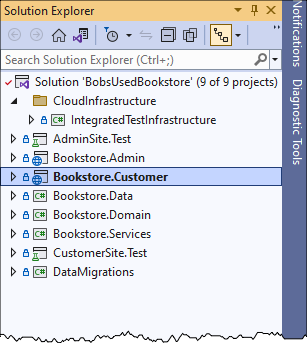
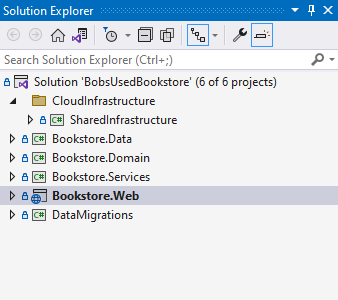
Update readme.

diff --git a/README.md b/README.md
@@ -1,24 +1,24 @@
 # 'Bob's Used Books' Sample Application
 
-_Bob's Used Books_ is a sample application, built on ASP.NET Core, that aims to represent a real-world bookstore. It consists of two ASP.NET Core MVC web applications. Both the admin and customer web applications make use of a single Microsoft SQL Server database.
+_Bob's Used Books_ is a sample application, built on ASP.NET Core, that aims to represent a real-world bookstore. It is a monolithic n-tier application with an ASP.NET Core MVC front end and a Microsoft SQL Server database backend.
 
-The first application is a customer-facing website, enabling customers to browse the store's stock of used books being offered for sale, select and add them to a shopping cart, and work through a fictional check-out process. Store customers can also offer their own books for resale through the website.
+The front end web application contains a customer portal and an administration portal. The customer portal enables customers to browse the store's stock of used books being offered for sale, select and add them to a shopping cart, and work through a fictional check-out process. Store customers can also offer their own books for resale through the website.
 
-![Customer web app home page](./media/customer_app_home.png)
+![Customer portal home page](./media/customer_app_home.png)
 
-The second application is the bookstore's 'admin' website, used by our fictional bookstore staff to maintain the stocks of books available in the store, process customer orders, and other bookstore-related tasks.
+The administration portal is used to maintain the stocks of books available in the store, process customer orders, and other bookstore-related tasks.
 
 ![Admin web app home page](./media/admin_app_home.png)
 
-In its current state the sample web applications illustrate an in-progress "lift and shift" from on-premises applications to the AWS cloud, with partial modernization to use some AWS services. As the sample application progresses over time we have plans to add further modernization examples including (but not limited to) changes such as database modernization and refactoring to microservices.
+In its current state the application illustrates an in-progress "lift and shift" from on-premises to AWS, with partial modernization to use some AWS services. As the sample application progresses over time we have plans to add further modernization examples including (but not limited to) changes such as database modernization and refactoring to microservices.
 
-## Running the sample applications
+## Running the sample application
 
-Both web applications, and supporting shared projects, can be found in the _app_ subfolder of the repository. _Bookstore.Admin_ is the ASP.NET Core MVC application representing the stores administrative application, and _Bookstore.Customer_ is the ASP.NET Core MVC application representing the customer-facing web site.
+The web application and supporting projects can be found in the _app_ subfolder of the repository. _Bookstore.Web_ is the ASP.NET Core MVC application front end.
 
 ![Projects in Visual Studio's Solution Explorer](./media/vs_solution_projects.png)
 
-You can run and debug both web applications, at the same time, from the repository codebase without needing to create any AWS resources or deploy the applications. Optionally, you can also run both applications locally, in a state representing the in-progress lift and shift operation, where a small number of AWS services are used to provide application features such as:
+You can run and debug the web application from the repository codebase without needing to create any AWS resources or deploy the application. Optionally, you can also run the web application locally, in a state representing the in-progress lift and shift operation, where a small number of AWS services are used to provide application features such as:
 
 * An object store holding cover images for the store's books, using a private [Amazon S3](https://aws.amazon.com/s3) bucket.
 * An [Amazon CloudFront](https://aws.amazon.com/cloudfront) distribution, through which the objects (images) in the bucket are accessed, enabling the bucket to remain private.
@@ -26,111 +26,70 @@ You can run and debug both web applications, at the same time, from the reposito
 * Secrets management for the database credentials using [Amazon Secrets Manager](https://aws.amazon.com/secrets-manager).
 * Application configuration parameters retrieved at runtime from [AWS Systems Manager](https://aws.amazon.com/systems-manager) Parameter Store.
 
-Launch profiles, contained in the respective application's launchSettings.json files, are used to determine whether you are running the applications fully local (no AWS resources) or local with AWS resources. The launch profile that represents a fully local run, without using any AWS services, is called the _Local_ profile. The second profile, in which the applications can be run locally but also make use of some AWS services, is called the _integrated_ profile.
+Launch profiles, contained in the application's launchSettings.json file, are used to determine whether you are running the application fully local (no AWS resources) or local with AWS resources. The launch profile that represents a fully local run, without using any AWS services, is called the _Local_ profile. The second profile, in which the application can be run locally but also make use of some AWS services, is called the _integrated_ profile.
 
-![Launch profiles for the admin web app](./media/vs_admin_launch_profiles.png)
+![Launch profiles for the web app](./media/vs_launch_profiles.png)
 
-![Launch profiles for the customer web app](./media/vs_customer_launch_profiles.png)
+To run the application using the _Integrated_ profile a minimal set of AWS resources need to be provisioned. This is achieved using Infrastructure as Code (IaC) with an [AWS Cloud Development Kit (CDK)](https://aws.amazon.com/cdk) application contained in the _infrastructure/SharedInfrastructure_ folder of the repository. The project in the _infrastructure/SharedInfrastructure/src_ subfolder can be deployed using the CDK's command-line tooling to instantiate the required resources.
 
-To run the applications using the _Integrated_ profile a minimal set of AWS resources need to be provisioned. This is achieved using Infrastructure as Code (IaC) with an [AWS Cloud Development Kit (CDK)](https://aws.amazon.com/cdk) application contained in the _infrastructure/SharedInfrastructure_ folder of the repository. The project in the _infrastructure/SharedInfrastructure/src_ subfolder can be deployed using the CDK's command-line tooling to instantiate the required resources.
+**Note 1:** the CDK application in the _infrastructure/SharedInfrastructure/src_ folder creates minimal resources needed for debugging using the _Integrated_ launch profile *or* a full set of resources equating to a "production" deployment. See the [deployment README](./infrastructure/SharedInfrastructure/README.md) file for more details.
 
-**Note 1:** the CDK application in the _infrastructure/SharedInfrastructure/src_ folder creates minimal resources needed for debugging using the _Integrated_ launch profiles *or* a full set of resources equating to a "production" deployment. See the [deployment README](./infrastructure/SharedInfrastructure/README.md) file for more details.
+**Note 2:** the sample application make use of **localdb** for database connectivity. Therefore, Microsoft Windows is currently required to run these samples.
 
-**Note 2:** the sample applications make use of **localdb** for database connectivity. Therefore, Microsoft Windows is currently required to run these samples.
+### Running and debugging with the _Local_ launch profile
 
-### Running and debugging with the _Local_ launch profiles
+Having cloned the repository, the application can be run on a Microsoft Windows workstation without further configuration or deployment.
 
-Having cloned the repository, the admin and customer web site applications can be run, in parallel, on a Microsoft Windows workstation without further configuration or deployment.
+To run the web application fully local, using no cloud resources, start the **Bookstore.Web** project using the _Local_ profile in your IDE or at the command line. Ports 5000 and 5001 are used for the web application on localhost.
 
-1. To run the admin web application fully local, using no cloud resources, start the **Bookstore.Admin** project using the _AdminSite Local_ profile in your IDE or at the command line. Ports 5000 and 5001 are used for the admin site on localhost.
+When running under the _local_ profile the application will use a **localdb** instance for database support with the connection string defined in appSettings.Development.json files. User authentication is simulated. Clicking the _Log in_ option results in a transition to an authenticated state, without prompting for username or password, or user sign-up. This enables you to test the work processes in the admin portal, and customer features such as shopping cart, without needing cloud resources. Facades within the application abstract away potential use of AWS services such as Amazon S3 to the local file system.
 
-1. To run the customer web application fully local, using no cloud resources, start the **Bookstore.Customer** project using the _CustomerSite Local_ profile in your IDE or at the command line. Ports 4000 and 4001 are used for the customer site on localhost.
+### Running and debugging with the _Integrated_ launch profile
 
-When running under the _local_ profiles, both applications will use a **localdb** instance for database support, with the connection string defined in their respective appSettings.Development.json files. User authentication for both applications is simulated. Clicking the respective _Log in_ options in both applications results in a transition to an authenticated state, without prompting for username or password, or user sign-up. This enables you to test the work processes in the admin application, and customer features such as shopping cart, without needing cloud resources. Facades within the applications abstract away potential use of AWS services such as Amazon S3 to the local file system.
-
-### Running and debugging with the _Integrated_ launch profiles
-
-Prior to using the _Integrated_ launch profiles for the web applications you need to perform a deployment of the single CDK infrastructure stack, to create and configure a minimum set of AWS resources that each application will use. To deploy the minimal cloud infrastructure needed to support running the applications using the _Integrated_ profiles, see the [deployment README](./infrastructure/SharedInfrastructure/README.md) file.
+Prior to using the _Integrated_ launch profile for the web application you need to perform a deployment of the single CDK infrastructure stack, to create and configure a minimum set of AWS resources that the application will use. To deploy the minimal cloud infrastructure needed to support running the application using the _Integrated_ profile, see the [deployment README](./infrastructure/SharedInfrastructure/README.md) file.
 
 Once the CDK deployment has completed:
 
-1. Update the appsettings.Test.json file for **both** of the web applications, to set a credential profile and region. An example of the required settngs is shown below.
+1. Update the appsettings.Test.json file for the web application, to set a credential profile and region. An example of the required settngs is shown below.
 
     ![AppSettings update](./media/appsettings_integrated_debug.png)
 
-    **Note:** These settings are needed as the applications will be calling AWS service APIs to access the resources you just provisioned using the CDK. The `Region` property should match the region you told the CDK to deploy to, or `us-west-2` if you accepted the default built into the CDK application. The `Profile` property value should point to credentials that belong to the same account used with the CDK deployment.
+    **Note:** These settings are needed as the application will be calling AWS service APIs to access the resources you just provisioned using the CDK. The `Region` property should match the region you told the CDK to deploy to, or `us-west-2` if you accepted the default built into the CDK application. The `Profile` property value should point to credentials that belong to the same account used with the CDK deployment.
 
-1. Run the admin application by starting the **Bookstore.Admin** project using the _AdminSite Integrated_ profile in your IDE or at the command line. Ports 5000 and 5001 are used for the admin site on localhost.
-
-1. Run the customer application by starting the **Bookstore.Customer** project using the _CustomerSite Integrated_ profile in your IDE or at the command line. Ports 4000 and 4001 are used for the customer site on localhost.
+Run the  application by starting the **Bookstore.Web** project using the _Integrated_ profile in your IDE or at the command line. Ports 5000 and 5001 are used for the web application on localhost.
 
 ### User authentication
 
-In integrated mode, both applications use Amazon Cognito user pools for user authentication.
+In integrated mode, the application uses Amazon Cognito user pools for user authentication and Amazon Cognito user groups for role-based authorization.
 
-For the admin site you will need to create a user, representing bookstore staff, in the user pool for the admin site. When creating the fictional staff user, you can elect to have a temporary password auto-generated for you, and an email sent to a valid email address with the password. Alternatively, you can choose to not have an email sent, and set the temporary password yourself. Either way, on first login to the admin application, you will be asked to change the temporary password.
+On first login to the admin application you will be asked to change the temporary password.
 
-**Note:** The instructions below set the Create User options to (a) have the password emailed to a real email address, and (b) have the password be auto-generated. The screenshots are taken from the new Cognito console experience. If you are running the older experience you may encounter some differences, however the instructional flow holds true.
+1. Start the application using the _Integrated_ launch profile.
 
-1. Sign into the AWS Management Console and proceed to the Amazon Cognito dashboard.
+1. In the application, select _Log in_ from the application toolbar.
 
-1. Select **Manage User Pools** in the Cognito dashboard. Two User Pools belonging to the sample, and created by the CDK application, will be listed - _BobsUsedBooks-Test-AdminPool_ and _BobsUsedBooks-Test-CustomerPool_.
+1. Sign in using **admin** for the username and **P@ssword1** for the password.
 
-    ![User pools for the applications](./media/cognito_user_pools.png)
+    ![Initial sign-in](./media/app_sign-in.png)
 
-1. Select the User Pool for the admin application, _BobsUsedBooks-Test-AdminPool_, to open the pool details view.
+1. Because you signed in with a temporary password you are prompted to create a new password and to provide some additional details.
 
-1. Choose _Users_ from the tab panel. (If using the old experience, select _Users and Groups_ from the left-side navigation panel.)
+    ![Change password](./media/app_sign-in_password_update.png)
 
-    ![Users tab](./media/cognito-admin-pool.png)
+You are then signed into the application and placed at the customer portal home page. Because the admin user belongs to the Administrators group you can navigate between the admin portal and the customer portal by following the _Admin Portal_ and _Customer Portal_ links in the top-right corner of the page.
 
-1. Select **Create user**
+![Order view in Admin app](./media/app_post_sign-in.png)
 
-1. Select the **Send an email invitation** option. Be sure to enter a real email address later! Alternatively, you can leave this option at "do not email" and set a temporary password yourself later on the form.
-
-1. Complete the User name and Email address fields. You can also mark the email as verified for this sample. Whether you auto-generate the password (and have it emailed), or set a temporary password, you will be asked to change it on first login to the admin application.
-
-    **Note:** For auto-generated passwords, be sure to set the options to have it emailed to you and **be sure to use a real email address to which you have access**!
-
-    ![Set user details](./media/cognito-admin-user.png)
-
-1. Select **Create user** to complete the form. A confirmation email will be sent to the email you enter (this may take a several minutes).
-
-1. On receipt of the email, follow the instructions to verify the email (if necessary) and set a new password.
-
-1. Start the admin application using the _Integrated_ launch profile.
-
-1. In the admin application, select _Log in_ from the application toolbar.
-
-1. Sign in using the username and password you just created.
-
-    ![Initial sign-in](./media/admin_app_sign-in.png)
-
-1. Because you signed in with a temporary password you are prompted to update it.
-
-    ![Change password](./media/admin_app_sign-in_password_update.png)
-
-You are then signed into the application and placed at the _Orders_ view. You can now access features in the admin application as if you were a staff member of the bookstore, for example to process customer orders, maintain stock, and more.
-
-![Order view in Admin app](./media/admin_app_post_sign-in.png)
-
-**Note:** In the customer application, end-users register themselves so as to be more similar to a real-world shopping experience. The process starts using the _Log in_ option on the customer application's toolbar.
+**Note:** The application supports self sign up. When users sign up to Bob's Bookstore they are granted access to the customer portal, but not to the administrator portal. Administrators cannot be added via self sign up, they must be added directly in the application's Cognito user pool. This reflects a real-world sign-up and administration experience.
 
 ### Tearing down infrastructure
 
-Although minimal resources are created to support the _Integrated_ launch profiles of the web applications, it may still incur some cost. To avoid charges for unused resources, we recommend you delete the stack containing the infrastructure when you have finished exploring the sample.
+Although minimal resources are created to support the _Integrated_ launch profile of the web application, it may still incur some cost. To avoid charges for unused resources, we recommend you delete the stack containing the infrastructure when you have finished exploring the sample.
+
+**Note:** The application is deployed via multiple CloudFormation stacks. All stacks related to the application are prefixed with _BobsBookstore_. 
 
 To delete resources, either:
 
-1. Navigate to the CloudFormation dashboard in the AWS Management Console, select the stack you want to delete (_BookstoreIntegratedTest_ or _BookstoreProduction_) and delete it.
+1. Navigate to the CloudFormation dashboard in the AWS Management Console, select the stacks you want to delete and delete them.
 
-1. Or, in a command-line shell, set the working folder to be the _infrastructure/SharedInfrastructure_ folder of the repository and run the command `cdk destroy <stack-name>`, replacing `<stack-name>` with either _BookstoreIntegratedTest_ or _BookstoreProduction_ depending on which stack you created earlier. If you supplied `--profile` parameter to the CDK when instantiating the stack, be sure to provide the same ones on deletion, otherwise the CDK command will error out complaining that the stack cannot be found.
-
-Finally, remove the user pools:
-
-1. Navigate to the Amazon Cognito dashboard in the AWS Management Console.
-
-1. In turn, select and delete each of the two user pools belonging to the sample applications (). For each pool you select:
-
-    1. If using the new Cognito console experience, select **Delete** and enter the name of the pool to confirm.
-    1. If using the older Cognito console experience, select **Delete Pool** and enter the text _Delete_ to confirm.
+1. Or, in a command-line shell, set the working folder to be the _infrastructure/SharedInfrastructure_ folder of the repository and run the command `cdk destroy <stack-name>`, replacing `<stack-name>` with the stacks you want to delete. If you supplied `--profile` parameter to the CDK when instantiating the stack, be sure to provide the same ones on deletion, otherwise the CDK command will error out complaining that the stack cannot be found.
